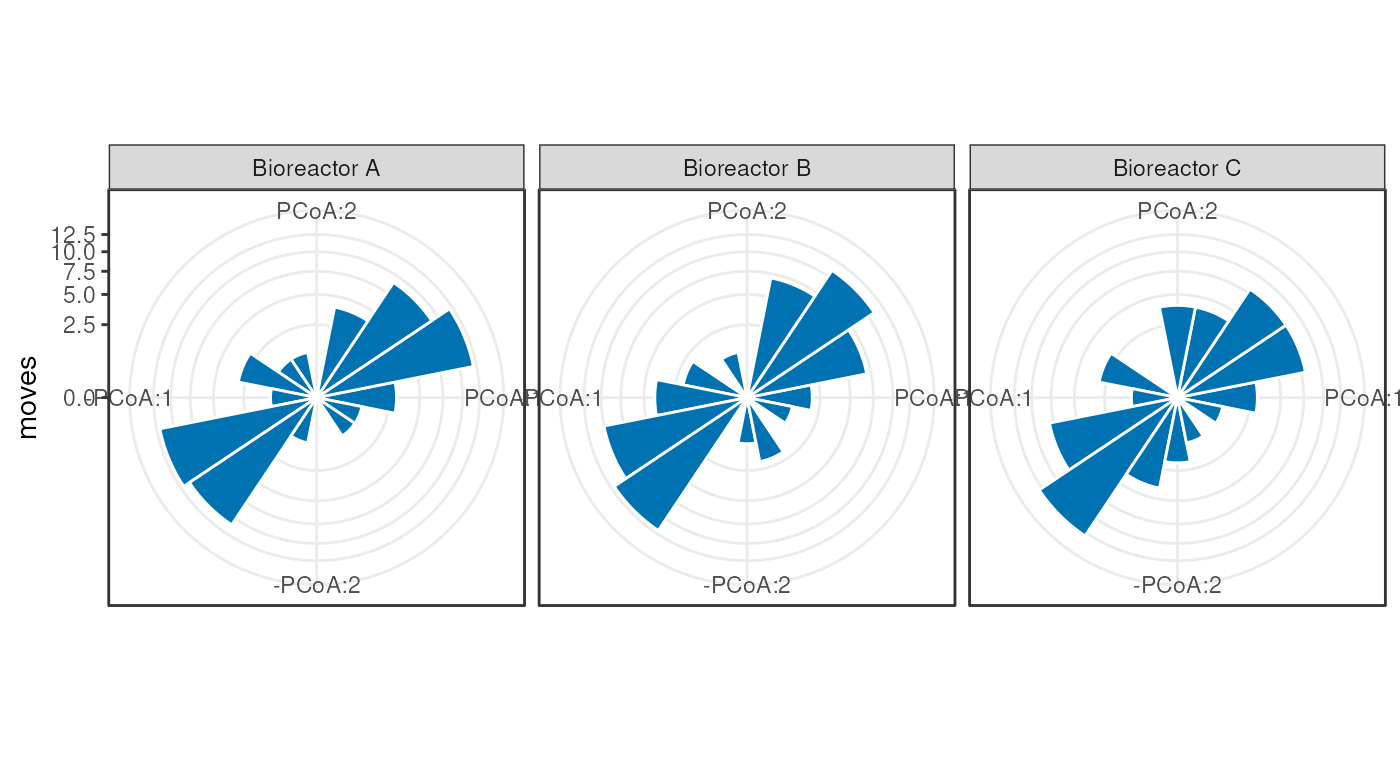
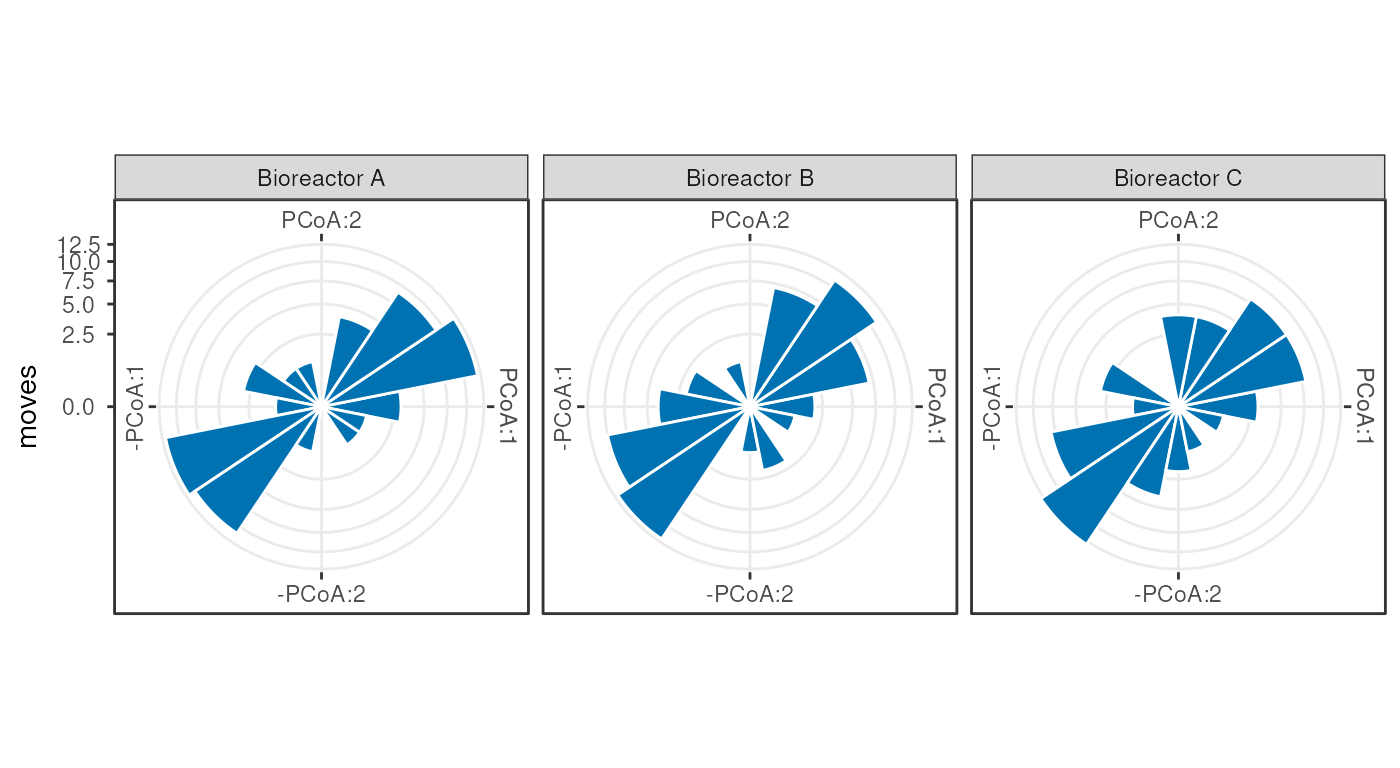
Deploying to gh-pages from @ 0xMuluh/tempoPlot@96fb99d45c62accd7cef104e6a46b4c942e7b573 🚀

Changed region(s): [[0.0, 0.1875, 1.0, 0.8125], [0.7371, 0.375, 1.0, 0.7188], [0.43, 0.3438, 0.645, 0.6875]]

diff --git a/articles/tempoPlot.html b/articles/tempoPlot.html
@@ -32,7 +32,7 @@
       </button>
       <span class="navbar-brand">
         <a class="navbar-link" href="../index.html">tempoPlot</a>
-        <span class="version label label-default" data-toggle="tooltip" data-placement="bottom" title="">0.99.64</span>
+        <span class="version label label-default" data-toggle="tooltip" data-placement="bottom" title="">0.99.65</span>
       </span>
     </div>
 
@@ -70,7 +70,7 @@ Visualization</h1>
             
             <h4 data-toc-skip class="date">2026-11-23</h4>
       
-      <small class="dont-index">Source: <a href="https://github.com/0xMuluh/tempoPlot/blob/interval-conventions/vignettes/tempoPlot.Rmd" class="external-link"><code>vignettes/tempoPlot.Rmd</code></a></small>
+      <small class="dont-index">Source: <a href="https://github.com/0xMuluh/tempoPlot/blob/cosmetic-labels/vignettes/tempoPlot.Rmd" class="external-link"><code>vignettes/tempoPlot.Rmd</code></a></small>
       <div class="hidden name"><code>tempoPlot.Rmd</code></div>
 
     </div>
@@ -782,7 +782,7 @@ Session info
 <span><span class="co">#&gt; [13] IRanges_2.47.5                  S4Vectors_0.51.10              </span></span>
 <span><span class="co">#&gt; [15] BiocGenerics_0.59.13            generics_0.1.4                 </span></span>
 <span><span class="co">#&gt; [17] MatrixGenerics_1.25.0           matrixStats_1.5.0              </span></span>
-<span><span class="co">#&gt; [19] tempoPlot_0.99.64               knitr_1.52                     </span></span>
+<span><span class="co">#&gt; [19] tempoPlot_0.99.65               knitr_1.52                     </span></span>
 <span><span class="co">#&gt; [21] BiocStyle_2.41.0               </span></span>
 <span><span class="co">#&gt; </span></span>
 <span><span class="co">#&gt; loaded via a namespace (and not attached):</span></span>

diff --git a/reference/plotSubjectScatter.html b/reference/plotSubjectScatter.html
@@ -20,7 +20,7 @@ of the subject loadings of a tensor decomposition such as TEMPTED."><!-- mathjax
       </button>
       <span class="navbar-brand">
         <a class="navbar-link" href="../index.html">tempoPlot</a>
-        <span class="version label label-default" data-toggle="tooltip" data-placement="bottom" title="">0.99.64</span>
+        <span class="version label label-default" data-toggle="tooltip" data-placement="bottom" title="">0.99.65</span>
       </span>
     </div>
 
@@ -47,7 +47,7 @@ of the subject loadings of a tensor decomposition such as TEMPTED."><!-- mathjax
   <div class="col-md-9 contents">
     <div class="page-header">
     <h1>Plot two subject-level statistics against each other</h1>
-    <small class="dont-index">Source: <a href="https://github.com/0xMuluh/tempoPlot/blob/interval-conventions/R/AllGenerics.R" class="external-link"><code>R/AllGenerics.R</code></a>, <a href="https://github.com/0xMuluh/tempoPlot/blob/interval-conventions/R/plotSubjectScatter.R" class="external-link"><code>R/plotSubjectScatter.R</code></a>, <a href="https://github.com/0xMuluh/tempoPlot/blob/interval-conventions/R/zzz-mae.R" class="external-link"><code>R/zzz-mae.R</code></a></small>
+    <small class="dont-index">Source: <a href="https://github.com/0xMuluh/tempoPlot/blob/cosmetic-labels/R/AllGenerics.R" class="external-link"><code>R/AllGenerics.R</code></a>, <a href="https://github.com/0xMuluh/tempoPlot/blob/cosmetic-labels/R/plotSubjectScatter.R" class="external-link"><code>R/plotSubjectScatter.R</code></a>, <a href="https://github.com/0xMuluh/tempoPlot/blob/cosmetic-labels/R/zzz-mae.R" class="external-link"><code>R/zzz-mae.R</code></a></small>
     <div class="hidden name"><code>plotSubjectScatter.Rd</code></div>
     </div>
 

diff --git a/reference/plotFingerprint.html b/reference/plotFingerprint.html
@@ -20,7 +20,7 @@ sample of any other subject."><!-- mathjax --><script src="https://cdnjs.cloudfl
       </button>
       <span class="navbar-brand">
         <a class="navbar-link" href="../index.html">tempoPlot</a>
-        <span class="version label label-default" data-toggle="tooltip" data-placement="bottom" title="">0.99.64</span>
+        <span class="version label label-default" data-toggle="tooltip" data-placement="bottom" title="">0.99.65</span>
       </span>
     </div>
 
@@ -47,7 +47,7 @@ sample of any other subject."><!-- mathjax --><script src="https://cdnjs.cloudfl
   <div class="col-md-9 contents">
     <div class="page-header">
     <h1>Plot whether subjects are identified by their own earlier sample</h1>
-    <small class="dont-index">Source: <a href="https://github.com/0xMuluh/tempoPlot/blob/interval-conventions/R/AllGenerics.R" class="external-link"><code>R/AllGenerics.R</code></a>, <a href="https://github.com/0xMuluh/tempoPlot/blob/interval-conventions/R/plotFingerprint.R" class="external-link"><code>R/plotFingerprint.R</code></a>, <a href="https://github.com/0xMuluh/tempoPlot/blob/interval-conventions/R/zzz-mae.R" class="external-link"><code>R/zzz-mae.R</code></a></small>
+    <small class="dont-index">Source: <a href="https://github.com/0xMuluh/tempoPlot/blob/cosmetic-labels/R/AllGenerics.R" class="external-link"><code>R/AllGenerics.R</code></a>, <a href="https://github.com/0xMuluh/tempoPlot/blob/cosmetic-labels/R/plotFingerprint.R" class="external-link"><code>R/plotFingerprint.R</code></a>, <a href="https://github.com/0xMuluh/tempoPlot/blob/cosmetic-labels/R/zzz-mae.R" class="external-link"><code>R/zzz-mae.R</code></a></small>
     <div class="hidden name"><code>plotFingerprint.Rd</code></div>
     </div>
 

diff --git a/reference/plotIndividuality.html b/reference/plotIndividuality.html
@@ -20,7 +20,7 @@ communities."><!-- mathjax --><script src="https://cdnjs.cloudflare.com/ajax/lib
       </button>
       <span class="navbar-brand">
         <a class="navbar-link" href="../index.html">tempoPlot</a>
-        <span class="version label label-default" data-toggle="tooltip" data-placement="bottom" title="">0.99.64</span>
+        <span class="version label label-default" data-toggle="tooltip" data-placement="bottom" title="">0.99.65</span>
       </span>
     </div>
 
@@ -47,7 +47,7 @@ communities."><!-- mathjax --><script src="https://cdnjs.cloudflare.com/ajax/lib
   <div class="col-md-9 contents">
     <div class="page-header">
     <h1>Plot within- against between-subject dissimilarities</h1>
-    <small class="dont-index">Source: <a href="https://github.com/0xMuluh/tempoPlot/blob/interval-conventions/R/AllGenerics.R" class="external-link"><code>R/AllGenerics.R</code></a>, <a href="https://github.com/0xMuluh/tempoPlot/blob/interval-conventions/R/plotIndividuality.R" class="external-link"><code>R/plotIndividuality.R</code></a>, <a href="https://github.com/0xMuluh/tempoPlot/blob/interval-conventions/R/zzz-mae.R" class="external-link"><code>R/zzz-mae.R</code></a></small>
+    <small class="dont-index">Source: <a href="https://github.com/0xMuluh/tempoPlot/blob/cosmetic-labels/R/AllGenerics.R" class="external-link"><code>R/AllGenerics.R</code></a>, <a href="https://github.com/0xMuluh/tempoPlot/blob/cosmetic-labels/R/plotIndividuality.R" class="external-link"><code>R/plotIndividuality.R</code></a>, <a href="https://github.com/0xMuluh/tempoPlot/blob/cosmetic-labels/R/zzz-mae.R" class="external-link"><code>R/zzz-mae.R</code></a></small>
     <div class="hidden name"><code>plotIndividuality.Rd</code></div>
     </div>
 

diff --git a/reference/plotFeatureScatter.html b/reference/plotFeatureScatter.html
@@ -20,7 +20,7 @@ the neutral model of occupancy and mean relative abundance."><!-- mathjax --><sc
       </button>
       <span class="navbar-brand">
         <a class="navbar-link" href="../index.html">tempoPlot</a>
-        <span class="version label label-default" data-toggle="tooltip" data-placement="bottom" title="">0.99.64</span>
+        <span class="version label label-default" data-toggle="tooltip" data-placement="bottom" title="">0.99.65</span>
       </span>
     </div>
 
@@ -47,7 +47,7 @@ the neutral model of occupancy and mean relative abundance."><!-- mathjax --><sc
   <div class="col-md-9 contents">
     <div class="page-header">
     <h1>Plot two statistics of each feature with a fit</h1>
-    <small class="dont-index">Source: <a href="https://github.com/0xMuluh/tempoPlot/blob/interval-conventions/R/AllGenerics.R" class="external-link"><code>R/AllGenerics.R</code></a>, <a href="https://github.com/0xMuluh/tempoPlot/blob/interval-conventions/R/plotFeatureScatter.R" class="external-link"><code>R/plotFeatureScatter.R</code></a>, <a href="https://github.com/0xMuluh/tempoPlot/blob/interval-conventions/R/zzz-mae.R" class="external-link"><code>R/zzz-mae.R</code></a></small>
+    <small class="dont-index">Source: <a href="https://github.com/0xMuluh/tempoPlot/blob/cosmetic-labels/R/AllGenerics.R" class="external-link"><code>R/AllGenerics.R</code></a>, <a href="https://github.com/0xMuluh/tempoPlot/blob/cosmetic-labels/R/plotFeatureScatter.R" class="external-link"><code>R/plotFeatureScatter.R</code></a>, <a href="https://github.com/0xMuluh/tempoPlot/blob/cosmetic-labels/R/zzz-mae.R" class="external-link"><code>R/zzz-mae.R</code></a></small>
     <div class="hidden name"><code>plotFeatureScatter.Rd</code></div>
     </div>
 

diff --git a/reference/plotTransitionMatrix.html b/reference/plotTransitionMatrix.html
@@ -19,7 +19,7 @@ state matrix."><!-- mathjax --><script src="https://cdnjs.cloudflare.com/ajax/li
       </button>
       <span class="navbar-brand">
         <a class="navbar-link" href="../index.html">tempoPlot</a>
-        <span class="version label label-default" data-toggle="tooltip" data-placement="bottom" title="">0.99.64</span>
+        <span class="version label label-default" data-toggle="tooltip" data-placement="bottom" title="">0.99.65</span>
       </span>
     </div>
 
@@ -46,7 +46,7 @@ state matrix."><!-- mathjax --><script src="https://cdnjs.cloudflare.com/ajax/li
   <div class="col-md-9 contents">
     <div class="page-header">
     <h1>Plot transitions between states</h1>
-    <small class="dont-index">Source: <a href="https://github.com/0xMuluh/tempoPlot/blob/interval-conventions/R/AllGenerics.R" class="external-link"><code>R/AllGenerics.R</code></a>, <a href="https://github.com/0xMuluh/tempoPlot/blob/interval-conventions/R/plotTransitionMatrix.R" class="external-link"><code>R/plotTransitionMatrix.R</code></a>, <a href="https://github.com/0xMuluh/tempoPlot/blob/interval-conventions/R/zzz-mae.R" class="external-link"><code>R/zzz-mae.R</code></a></small>
+    <small class="dont-index">Source: <a href="https://github.com/0xMuluh/tempoPlot/blob/cosmetic-labels/R/AllGenerics.R" class="external-link"><code>R/AllGenerics.R</code></a>, <a href="https://github.com/0xMuluh/tempoPlot/blob/cosmetic-labels/R/plotTransitionMatrix.R" class="external-link"><code>R/plotTransitionMatrix.R</code></a>, <a href="https://github.com/0xMuluh/tempoPlot/blob/cosmetic-labels/R/zzz-mae.R" class="external-link"><code>R/zzz-mae.R</code></a></small>
     <div class="hidden name"><code>plotTransitionMatrix.Rd</code></div>
     </div>
 

diff --git a/reference/plotTimeLoadings.html b/reference/plotTimeLoadings.html
@@ -20,7 +20,7 @@ time."><!-- mathjax --><script src="https://cdnjs.cloudflare.com/ajax/libs/mathj
       </button>
       <span class="navbar-brand">
         <a class="navbar-link" href="../index.html">tempoPlot</a>
-        <span class="version label label-default" data-toggle="tooltip" data-placement="bottom" title="">0.99.64</span>
+        <span class="version label label-default" data-toggle="tooltip" data-placement="bottom" title="">0.99.65</span>
       </span>
     </div>
 
@@ -47,7 +47,7 @@ time."><!-- mathjax --><script src="https://cdnjs.cloudflare.com/ajax/libs/mathj
   <div class="col-md-9 contents">
     <div class="page-header">
     <h1>Plot temporal loadings of a tensor decomposition</h1>
-    <small class="dont-index">Source: <a href="https://github.com/0xMuluh/tempoPlot/blob/interval-conventions/R/AllGenerics.R" class="external-link"><code>R/AllGenerics.R</code></a>, <a href="https://github.com/0xMuluh/tempoPlot/blob/interval-conventions/R/plotTimeLoadings.R" class="external-link"><code>R/plotTimeLoadings.R</code></a>, <a href="https://github.com/0xMuluh/tempoPlot/blob/interval-conventions/R/zzz-mae.R" class="external-link"><code>R/zzz-mae.R</code></a></small>
+    <small class="dont-index">Source: <a href="https://github.com/0xMuluh/tempoPlot/blob/cosmetic-labels/R/AllGenerics.R" class="external-link"><code>R/AllGenerics.R</code></a>, <a href="https://github.com/0xMuluh/tempoPlot/blob/cosmetic-labels/R/plotTimeLoadings.R" class="external-link"><code>R/plotTimeLoadings.R</code></a>, <a href="https://github.com/0xMuluh/tempoPlot/blob/cosmetic-labels/R/zzz-mae.R" class="external-link"><code>R/zzz-mae.R</code></a></small>
     <div class="hidden name"><code>plotTimeLoadings.Rd</code></div>
     </div>
 

diff --git a/reference/plotRecurrence.html b/reference/plotRecurrence.html
@@ -19,7 +19,7 @@ draws a recurrence plot: the pairs of samples closer than the threshold."><!-- m
       </button>
       <span class="navbar-brand">
         <a class="navbar-link" href="../index.html">tempoPlot</a>
-        <span class="version label label-default" data-toggle="tooltip" data-placement="bottom" title="">0.99.64</span>
+        <span class="version label label-default" data-toggle="tooltip" data-placement="bottom" title="">0.99.65</span>
       </span>
     </div>
 
@@ -46,7 +46,7 @@ draws a recurrence plot: the pairs of samples closer than the threshold."><!-- m
   <div class="col-md-9 contents">
     <div class="page-header">
     <h1>Plot dissimilarities between the samples of each subject</h1>
-    <small class="dont-index">Source: <a href="https://github.com/0xMuluh/tempoPlot/blob/interval-conventions/R/AllGenerics.R" class="external-link"><code>R/AllGenerics.R</code></a>, <a href="https://github.com/0xMuluh/tempoPlot/blob/interval-conventions/R/plotRecurrence.R" class="external-link"><code>R/plotRecurrence.R</code></a>, <a href="https://github.com/0xMuluh/tempoPlot/blob/interval-conventions/R/zzz-mae.R" class="external-link"><code>R/zzz-mae.R</code></a></small>
+    <small class="dont-index">Source: <a href="https://github.com/0xMuluh/tempoPlot/blob/cosmetic-labels/R/AllGenerics.R" class="external-link"><code>R/AllGenerics.R</code></a>, <a href="https://github.com/0xMuluh/tempoPlot/blob/cosmetic-labels/R/plotRecurrence.R" class="external-link"><code>R/plotRecurrence.R</code></a>, <a href="https://github.com/0xMuluh/tempoPlot/blob/cosmetic-labels/R/zzz-mae.R" class="external-link"><code>R/zzz-mae.R</code></a></small>
     <div class="hidden name"><code>plotRecurrence.Rd</code></div>
     </div>
 

diff --git a/reference/plotLagHeatmap.html b/reference/plotLagHeatmap.html
@@ -19,7 +19,7 @@ correlations as features by lag tiles."><!-- mathjax --><script src="https://cdn
       </button>
       <span class="navbar-brand">
         <a class="navbar-link" href="../index.html">tempoPlot</a>
-        <span class="version label label-default" data-toggle="tooltip" data-placement="bottom" title="">0.99.64</span>
+        <span class="version label label-default" data-toggle="tooltip" data-placement="bottom" title="">0.99.65</span>
       </span>
     </div>
 
@@ -46,7 +46,7 @@ correlations as features by lag tiles."><!-- mathjax --><script src="https://cdn
   <div class="col-md-9 contents">
     <div class="page-header">
     <h1>Plot lagged correlations of features with a target</h1>
-    <small class="dont-index">Source: <a href="https://github.com/0xMuluh/tempoPlot/blob/interval-conventions/R/AllGenerics.R" class="external-link"><code>R/AllGenerics.R</code></a>, <a href="https://github.com/0xMuluh/tempoPlot/blob/interval-conventions/R/plotLagHeatmap.R" class="external-link"><code>R/plotLagHeatmap.R</code></a>, <a href="https://github.com/0xMuluh/tempoPlot/blob/interval-conventions/R/zzz-mae.R" class="external-link"><code>R/zzz-mae.R</code></a></small>
+    <small class="dont-index">Source: <a href="https://github.com/0xMuluh/tempoPlot/blob/cosmetic-labels/R/AllGenerics.R" class="external-link"><code>R/AllGenerics.R</code></a>, <a href="https://github.com/0xMuluh/tempoPlot/blob/cosmetic-labels/R/plotLagHeatmap.R" class="external-link"><code>R/plotLagHeatmap.R</code></a>, <a href="https://github.com/0xMuluh/tempoPlot/blob/cosmetic-labels/R/zzz-mae.R" class="external-link"><code>R/zzz-mae.R</code></a></small>
     <div class="hidden name"><code>plotLagHeatmap.Rd</code></div>
     </div>
 

diff --git a/reference/plotDirection.html b/reference/plotDirection.html
@@ -19,7 +19,7 @@ reduced dimension."><!-- mathjax --><script src="https://cdnjs.cloudflare.com/aj
       </button>
       <span class="navbar-brand">
         <a class="navbar-link" href="../index.html">tempoPlot</a>
-        <span class="version label label-default" data-toggle="tooltip" data-placement="bottom" title="">0.99.64</span>
+        <span class="version label label-default" data-toggle="tooltip" data-placement="bottom" title="">0.99.65</span>
       </span>
     </div>
 
@@ -46,7 +46,7 @@ reduced dimension."><!-- mathjax --><script src="https://cdnjs.cloudflare.com/aj
   <div class="col-md-9 contents">
     <div class="page-header">
     <h1>Plot directions of movement in an ordination</h1>
-    <small class="dont-index">Source: <a href="https://github.com/0xMuluh/tempoPlot/blob/interval-conventions/R/AllGenerics.R" class="external-link"><code>R/AllGenerics.R</code></a>, <a href="https://github.com/0xMuluh/tempoPlot/blob/interval-conventions/R/plotDirection.R" class="external-link"><code>R/plotDirection.R</code></a>, <a href="https://github.com/0xMuluh/tempoPlot/blob/interval-conventions/R/zzz-mae.R" class="external-link"><code>R/zzz-mae.R</code></a></small>
+    <small class="dont-index">Source: <a href="https://github.com/0xMuluh/tempoPlot/blob/cosmetic-labels/R/AllGenerics.R" class="external-link"><code>R/AllGenerics.R</code></a>, <a href="https://github.com/0xMuluh/tempoPlot/blob/cosmetic-labels/R/plotDirection.R" class="external-link"><code>R/plotDirection.R</code></a>, <a href="https://github.com/0xMuluh/tempoPlot/blob/cosmetic-labels/R/zzz-mae.R" class="external-link"><code>R/zzz-mae.R</code></a></small>
     <div class="hidden name"><code>plotDirection.Rd</code></div>
     </div>
 

diff --git a/reference/plotAlluvial.html b/reference/plotAlluvial.html
@@ -18,7 +18,7 @@ point as stacked strata and the subjects moving between states as flows."><!-- m
       </button>
       <span class="navbar-brand">
         <a class="navbar-link" href="../index.html">tempoPlot</a>
-        <span class="version label label-default" data-toggle="tooltip" data-placement="bottom" title="">0.99.64</span>
+        <span class="version label label-default" data-toggle="tooltip" data-placement="bottom" title="">0.99.65</span>
       </span>
     </div>
 
@@ -45,7 +45,7 @@ point as stacked strata and the subjects moving between states as flows."><!-- m
   <div class="col-md-9 contents">
     <div class="page-header">
     <h1>Plot flows of subjects between states over time</h1>
-    <small class="dont-index">Source: <a href="https://github.com/0xMuluh/tempoPlot/blob/interval-conventions/R/AllGenerics.R" class="external-link"><code>R/AllGenerics.R</code></a>, <a href="https://github.com/0xMuluh/tempoPlot/blob/interval-conventions/R/plotAlluvial.R" class="external-link"><code>R/plotAlluvial.R</code></a>, <a href="https://github.com/0xMuluh/tempoPlot/blob/interval-conventions/R/zzz-mae.R" class="external-link"><code>R/zzz-mae.R</code></a></small>
+    <small class="dont-index">Source: <a href="https://github.com/0xMuluh/tempoPlot/blob/cosmetic-labels/R/AllGenerics.R" class="external-link"><code>R/AllGenerics.R</code></a>, <a href="https://github.com/0xMuluh/tempoPlot/blob/cosmetic-labels/R/plotAlluvial.R" class="external-link"><code>R/plotAlluvial.R</code></a>, <a href="https://github.com/0xMuluh/tempoPlot/blob/cosmetic-labels/R/zzz-mae.R" class="external-link"><code>R/zzz-mae.R</code></a></small>
     <div class="hidden name"><code>plotAlluvial.Rd</code></div>
     </div>
 

diff --git a/reference/plotLandscape.html b/reference/plotLandscape.html
@@ -19,7 +19,7 @@ density, valleys of the potential, suggest alternative states."><!-- mathjax -->
       </button>
       <span class="navbar-brand">
         <a class="navbar-link" href="../index.html">tempoPlot</a>
-        <span class="version label label-default" data-toggle="tooltip" data-placement="bottom" title="">0.99.64</span>
+        <span class="version label label-default" data-toggle="tooltip" data-placement="bottom" title="">0.99.65</span>
       </span>
     </div>
 
@@ -46,7 +46,7 @@ density, valleys of the potential, suggest alternative states."><!-- mathjax -->
   <div class="col-md-9 contents">
     <div class="page-header">
     <h1>Plot the density landscape of a variable</h1>
-    <small class="dont-index">Source: <a href="https://github.com/0xMuluh/tempoPlot/blob/interval-conventions/R/AllGenerics.R" class="external-link"><code>R/AllGenerics.R</code></a>, <a href="https://github.com/0xMuluh/tempoPlot/blob/interval-conventions/R/plotLandscape.R" class="external-link"><code>R/plotLandscape.R</code></a>, <a href="https://github.com/0xMuluh/tempoPlot/blob/interval-conventions/R/zzz-mae.R" class="external-link"><code>R/zzz-mae.R</code></a></small>
+    <small class="dont-index">Source: <a href="https://github.com/0xMuluh/tempoPlot/blob/cosmetic-labels/R/AllGenerics.R" class="external-link"><code>R/AllGenerics.R</code></a>, <a href="https://github.com/0xMuluh/tempoPlot/blob/cosmetic-labels/R/plotLandscape.R" class="external-link"><code>R/plotLandscape.R</code></a>, <a href="https://github.com/0xMuluh/tempoPlot/blob/cosmetic-labels/R/zzz-mae.R" class="external-link"><code>R/zzz-mae.R</code></a></small>
     <div class="hidden name"><code>plotLandscape.Rd</code></div>
     </div>
 
